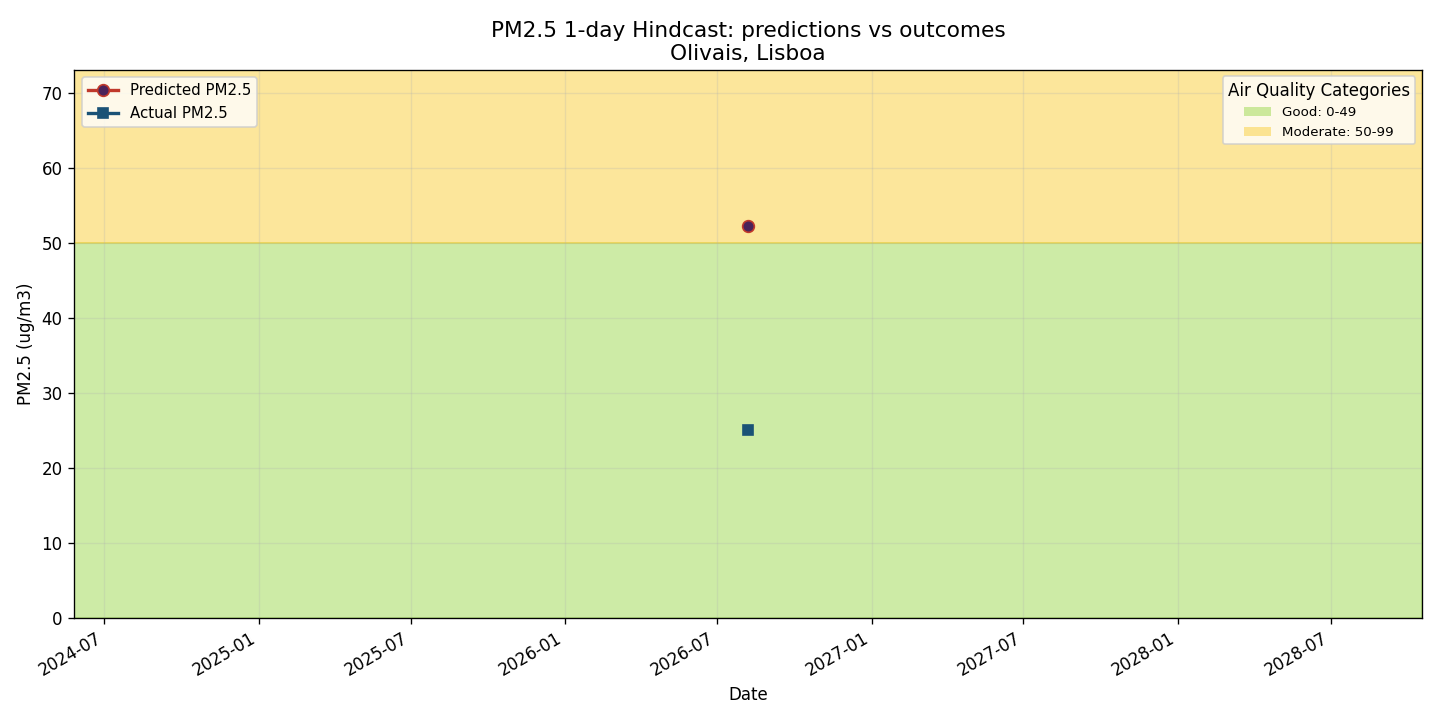
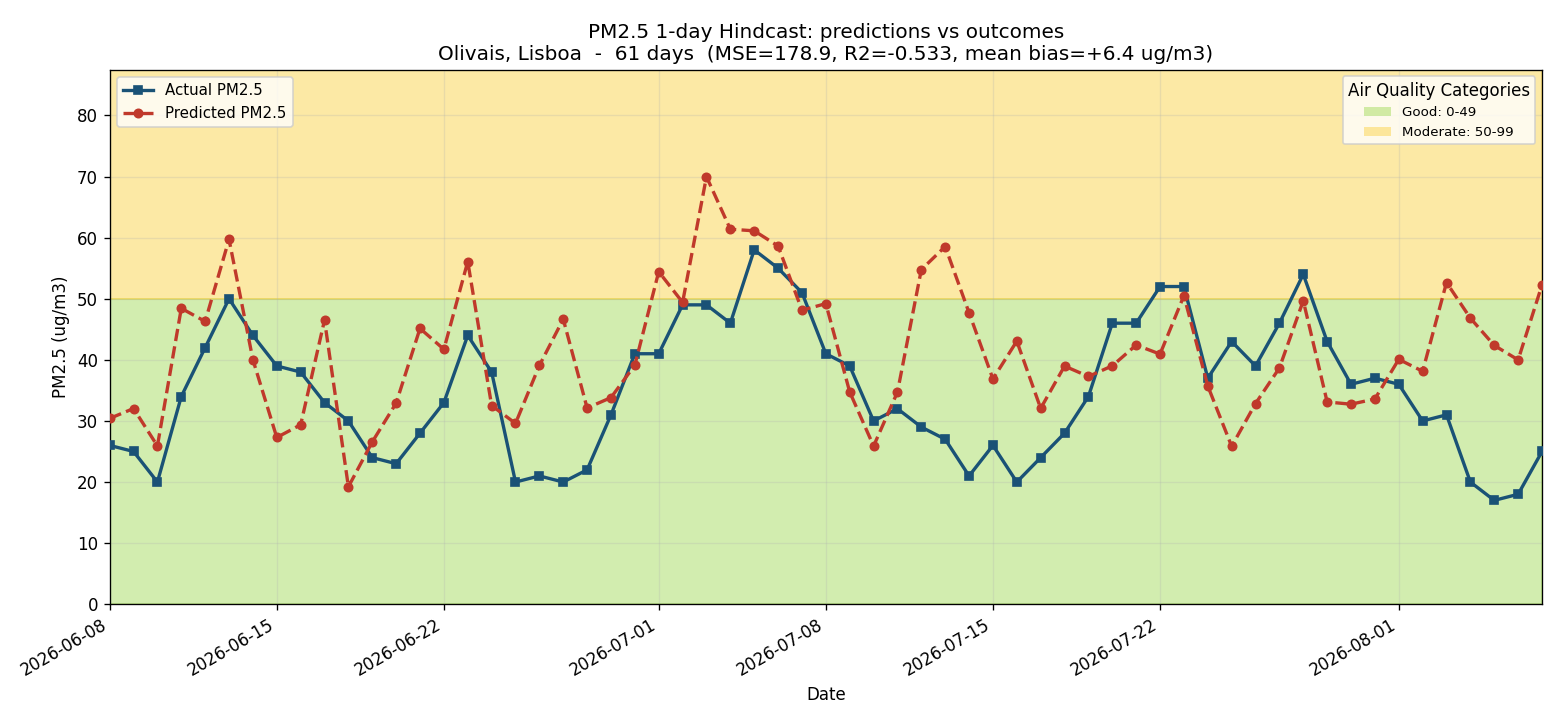
Publish the 61-day hindcast and record its metrics
Replaces the single-point chart with the backfilled 61-day window. MSE
and R2 match the Task 3 test metrics, confirming the same held-out
window was replayed. Mean bias is +6.41 ug/m3, and the chart shows the
model tracking daily weather noise while measured PM2.5 moves in smooth
multi-day waves - the momentum the Task 6 lag features are meant to
capture.

diff --git a/RESULTS.md b/RESULTS.md
@@ -125,10 +125,48 @@ This baseline is the "before" half of the Task 6 comparison.
 
 ## Task 5 — Monitoring / hindcast
 
-Hindcast chart of predictions vs measured outcomes over the 61-day test window,
-saved with the model in the registry and published to the dashboard. The
-`aq_predictions` feature group records each day's forecast so that prediction
-accuracy can be tracked as outcomes arrive.
+Hindcast chart of predictions vs measured outcomes, published to the dashboard
+at `docs/air-quality/assets/img/pm25_hindcast_1day.png`.
+
+The `aq_predictions` feature group records every forecast together with the
+horizon it was made at (`days_before_forecast_day`), so predictions can be
+compared against outcomes as they arrive. The chart selects only forecasts made
+1 day ahead.
+
+### Hindcast over the 61-day test window
+
+| Metric | Value |
+|---|---|
+| Days compared | 61 (2026-06-08 → 2026-08-07) |
+| MSE | 178.94 |
+| R² | −0.533 |
+| **Mean bias** | **+6.41 µg/m³ (over-predicting)** |
+
+MSE and R² match the Task 3 test metrics exactly, confirming the hindcast
+replays the same held-out window.
+
+### What the chart shows
+
+Two failure modes are visible and worth pointing out:
+
+1. **Systematic over-prediction** — the predicted line sits above the actual
+   line on most days, quantified as the +6.41 µg/m³ mean bias. Several days are
+   pushed into the "Moderate" band when the true reading was "Good".
+2. **Excess day-to-day volatility** — measured PM2.5 moves in smooth multi-day
+   waves, while predictions zigzag. The model is tracking daily weather noise,
+   but real pollution has *momentum* that weather features cannot express.
+
+That momentum is exactly what the lagged features in Task 6 supply.
+
+### Note on how the hindcast was populated
+
+The daily pipeline only accumulates predictions from the day it first runs, so a
+fresh deployment has a single matched pair. The monitoring group was therefore
+backfilled by replaying the trained model over the past 60 days of weather
+already in the feature store.
+
+These remain honest out-of-sample predictions: the model was trained on data up
+to 2026-06-07, so every backfilled day was unseen during training.
 
 ---
 
